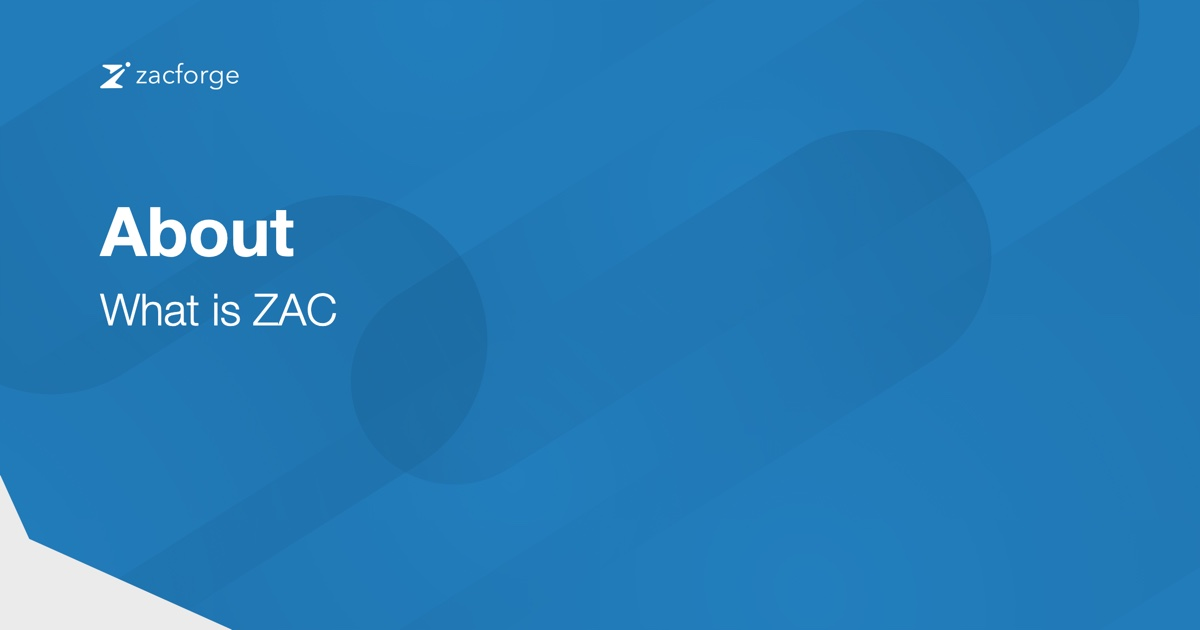
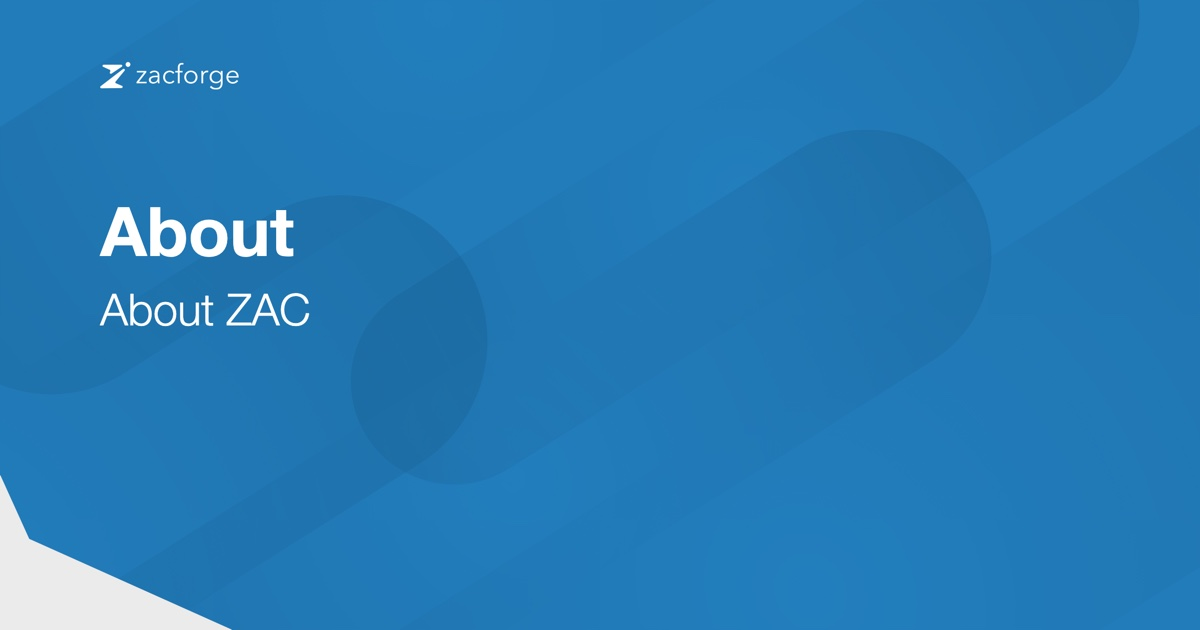
Footer About link, About headline "About ZAC"

Changed region(s): [[0.0617, 0.4524, 0.2775, 0.5429]]

diff --git a/src/pages/AboutPage.tsx b/src/pages/AboutPage.tsx
@@ -16,7 +16,7 @@ export const ABOUT_COPY = [
 
 /**
  * /about (Drew, 2026-11-18), on the /faq layout: the shared hero with the
- * page name, the handoff's "What is ZAC" as the headline and copy, then the
+ * page name, the headline "About ZAC" (Drew, 2026-11-18), the handoff's "What is ZAC" copy, then the
  * Principals section from the home page, unchanged. The top-bar "About"
  * link points here.
  */
@@ -29,7 +29,7 @@ export default function AboutPage() {
 
         <section className="section offer-lead about-lead">
           <div className="container">
-            <h1 className="h2 offer-title">What is ZAC</h1>
+            <h1 className="h2 offer-title">About ZAC</h1>
             {ABOUT_COPY.map((p) => (
               <p className="offer-intro" key={p}>
                 {p}

diff --git a/src/components/Footer.tsx b/src/components/Footer.tsx
@@ -39,7 +39,7 @@ export function Footer() {
           <a href="/#what-we-do">What we do</a>
           <a href="/#track-record">Case studies</a>
           <a href="/#how-we-work">How we work</a>
-          <a href="/#who-we-are">Team</a>
+          <a href="/about">About</a>
           <a href="/faq">FAQ</a>
         </nav>
 

diff --git a/CLAUDE.md b/CLAUDE.md
@@ -188,13 +188,13 @@ Every page is prerendered by `scripts/prerender.mjs` into `dist/<route>.html` wi
 | `HowWeWork.tsx` | Check, Fix, Partner `FlowRow` with ring icons, each step carrying its principle lines |
 | `LogoBand.tsx` `ExperienceStrip` | The credibility strip: four lines in blue Helvetica Light, label screen-reader only |
 | `WhoWeAre.tsx` | "Team", heading "Principals", the team intro, grey band, three 176px circles (initials until photos) then full name, role, bio paragraphs, all from `src/pages/team.ts`. On home and on `/about` |
-| `pages/AboutPage.tsx` | `/about` (Drew, 2026-11-18): `SubpageHero` named "About", h1 "What is ZAC", the four "What is ZAC" paragraphs, then `WhoWeAre`. AboutPage schema with BreadcrumbList Home > About and the three Person entries, OG card `public/og/about.jpg`, in the sitemap and `llms.txt`, linked from the top bar |
+| `pages/AboutPage.tsx` | `/about` (Drew, 2026-11-18): `SubpageHero` named "About", h1 "About ZAC", the four "What is ZAC" paragraphs, then `WhoWeAre`. AboutPage schema with BreadcrumbList Home > About and the three Person entries, OG card `public/og/about.jpg`, in the sitemap and `llms.txt`, linked from the top bar and the footer |
 | `pages/FaqPage.tsx` | `/faq` (Drew, 2026-11-17), moved off the home page (`HomeFaq.tsx` parked in `.superseded/`): `SubpageHero` with the name "FAQ" and no icon, h1 "Questions", the 7 questions from `src/pages/faq.ts` (which also feeds its FAQPage schema), `RelatedOffers` labelled "What we do", the offers' closing CTA. BreadcrumbList Home > FAQ, OG card `public/og/faq.jpg`, in the sitemap and `llms.txt`, linked from the footer, not in the main nav |
 | `RelatedOffers.tsx` | The offer cards block on offer pages ("Other services") and `/faq`: label as an `.eyebrow` h2, card titles and "More" all in the site blue (Drew, 2026-11-17, over Misha's per-offer colours, which stay on `Offer.accent` unused) |
 | `Closing.tsx`, `ContactForm.tsx` | "Connect", the form and the mark in its circle, also rendered on `/reality-check` |
 | `pages/ContactResult.tsx` | The pages after the form at `/contact/thanks`, `/contact/not-sent`, `/contact/error`: blue band, Z, noindex, out of the sitemap. The handler fills `[data-slot]` elements and `#contact-data` so hydration matches. The thank-you page hides the header CTA |
 | `pages/NotFound.tsx` | The 404, in the result pages' layout: "Page not found", one line, links to Home and the five offers. Catch-all route, prerendered to `dist/404.html`, which `functions/worker.ts` serves with status 404 for any path the assets lack. noindex, out of the sitemap |
-| `Footer.tsx` | Links absolute so they work from offer pages. The Site group ends with FAQ (`/faq`) |
+| `Footer.tsx` | Links absolute so they work from offer pages. The Site group ends with About (`/about`, was Team, 2026-11-18) and FAQ (`/faq`) |
 | `Brand.tsx` | Serves the board's wordmark SVG and the closing mark |
 | `SubpageHero.tsx` | The offer page hero from Misha's 417:2047 and siblings: band with swoosh art, icon, page name (a `p` at h1 size), `accent` prop for the colour the band fades to: each offer's `heroAccent` (`--color-hero-*`, Misha's question 40 colours, The Fix and Web Partner darkened for AA). Unset on the home banner, which stays flat blue. `variant="home"` is the home banner (412:1907), with the home hero's content as children |
 | `pages/OfferPage.tsx` | Shared offer page template: `SubpageHero` (`heroTitle`, `heroIcon`, `accent`), then the headline (the offer's `h1` field, set as an h2), v5 subline, intro, then lists, steps, proof, FAQ, related offers, CTA, optional form. FAQ data also renders the FAQPage schema so the two cannot diverge |
